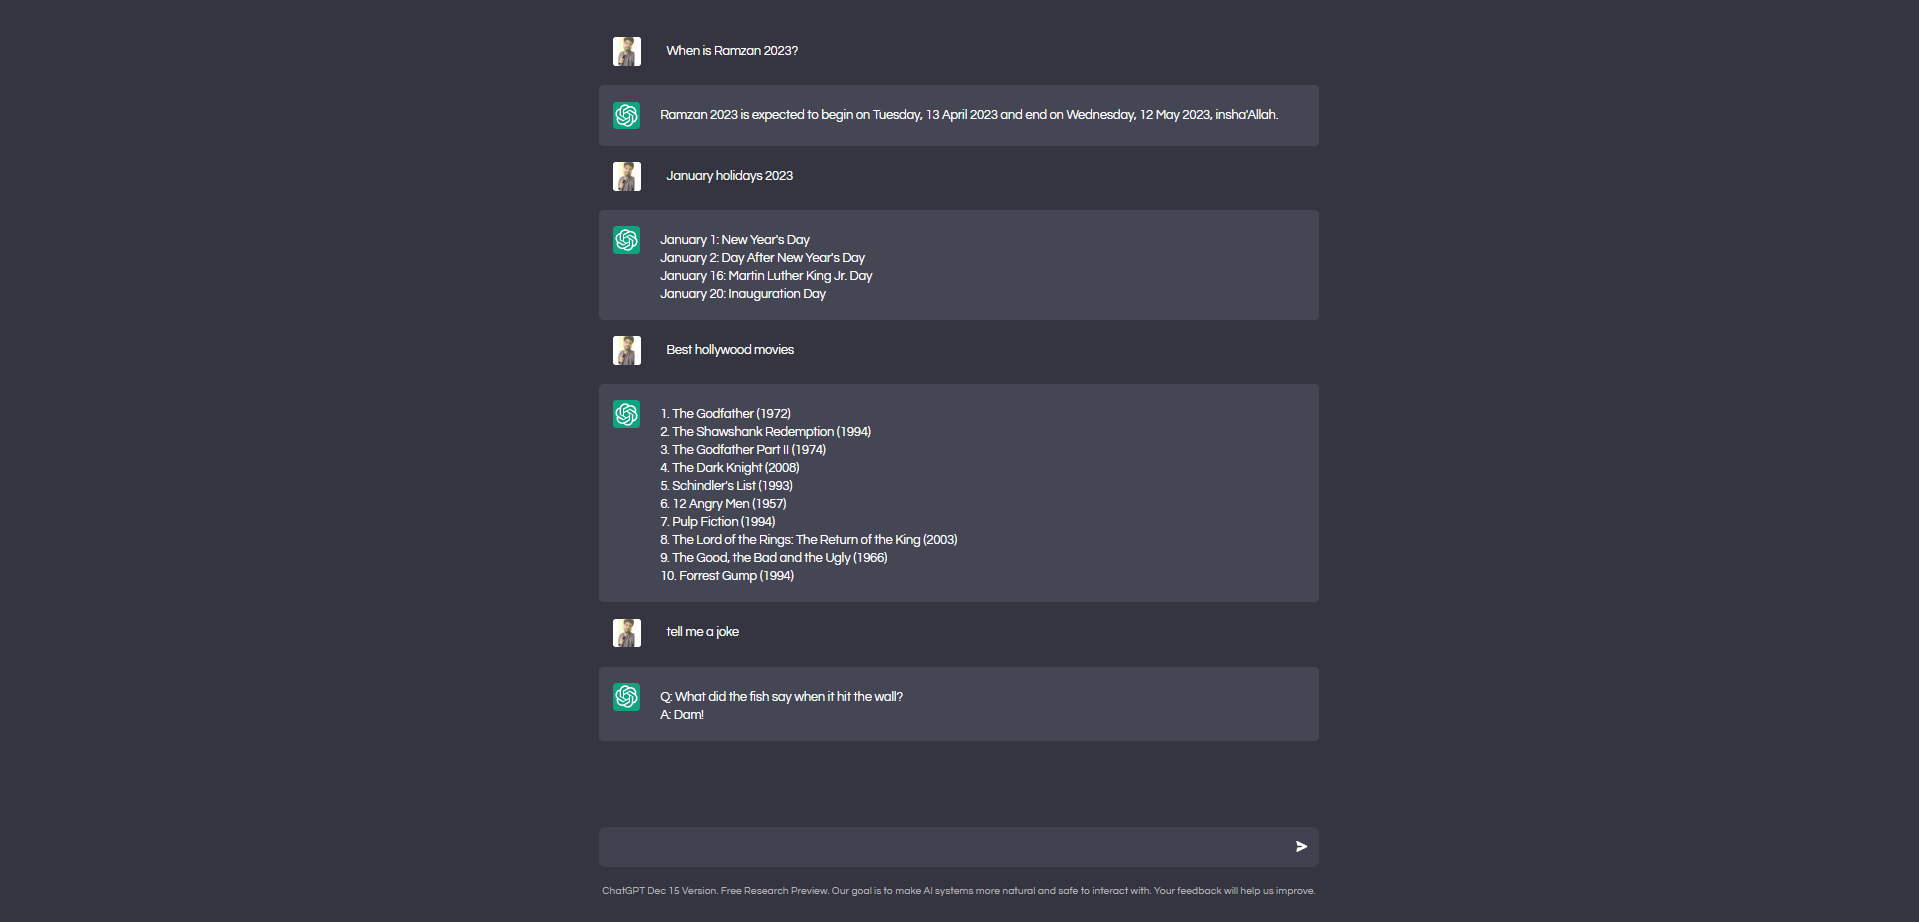
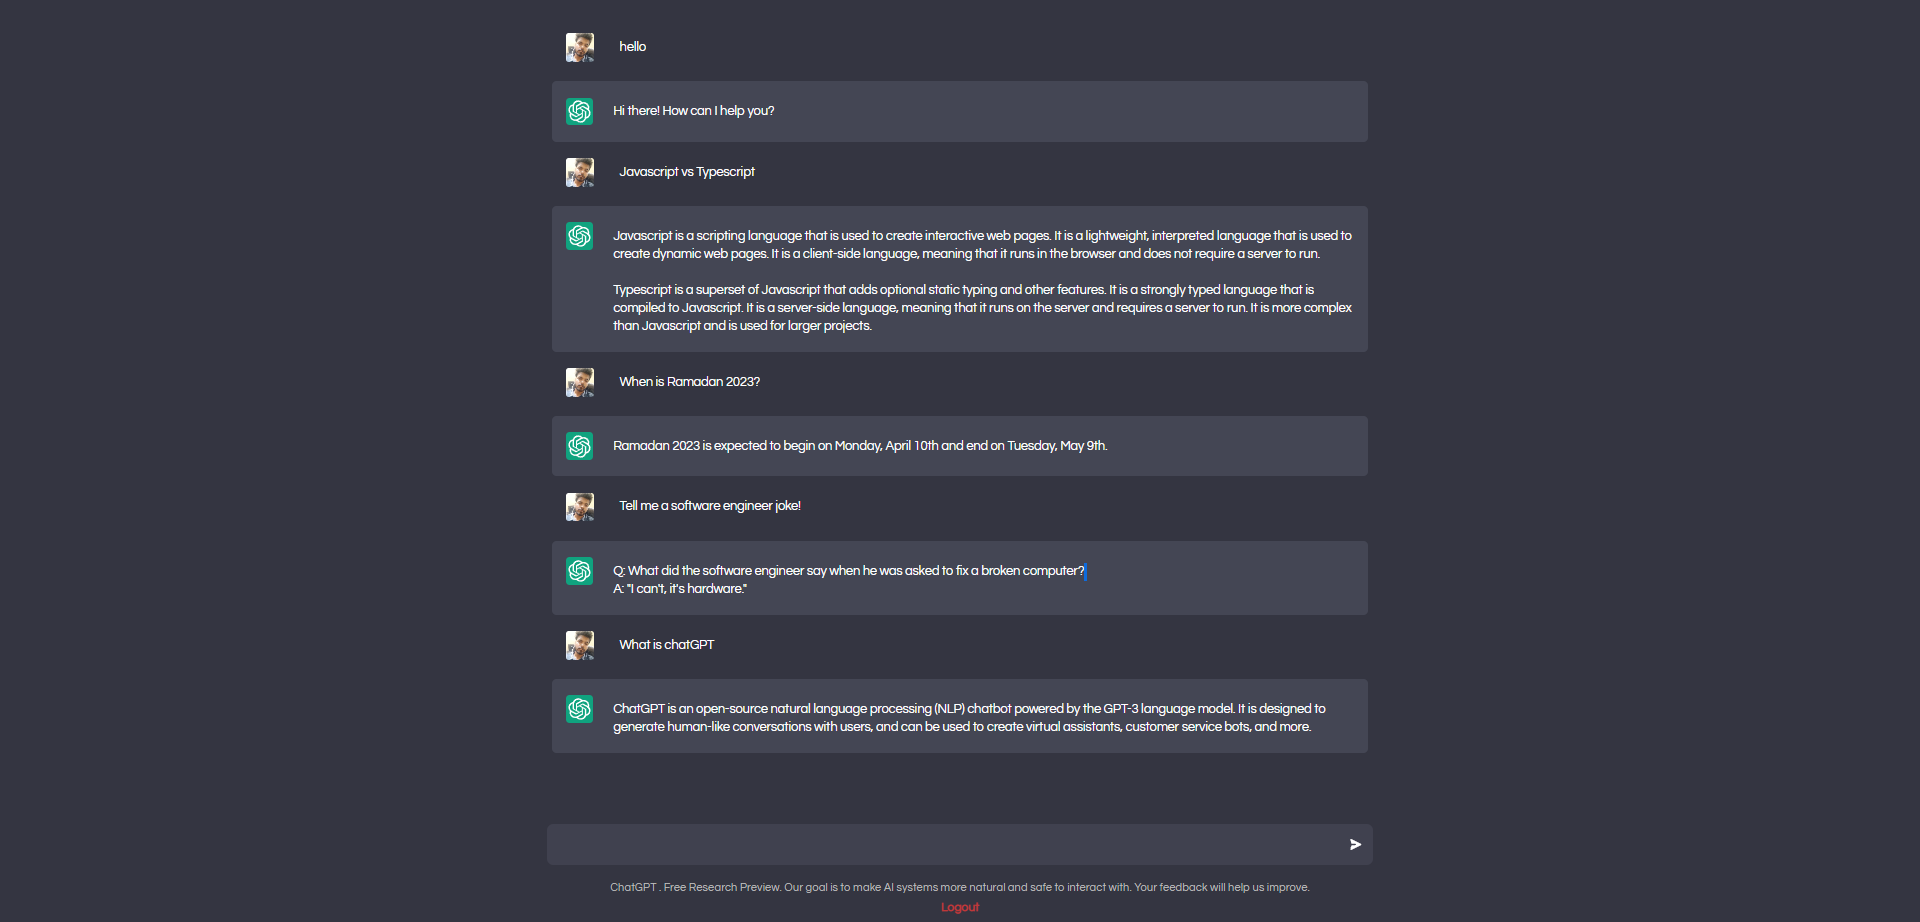
auto scroll added, unique key fixed, and get all previous chats too now and yes spinner added for loading

Changed region(s): [[0.2767, 0.243, 0.7071, 0.82], [0.2767, 0.0304, 0.6764, 0.2126], [0.3075, 0.9414, 0.6764, 1.0]]

diff --git a/client/src/App.tsx b/client/src/App.tsx
@@ -1,4 +1,4 @@
-import { useState } from "react";
+import { useEffect, useState } from "react";
 import Hero from "./components/Hero";
 import Input from "./components/Input";
 import Messages from "./components/Messages";
@@ -6,17 +6,31 @@ import { Routes, Route, Navigate } from "react-router-dom";
 import Login from "./pages/Login";
 import Signup from "./pages/Signup";
 import Auth from "./pages/Auth";
+import axios from "axios";
+import { url } from "./url";
 
 export type Message = {
   msg: string;
   me?: boolean;
   img: string | undefined;
+  _id: string;
+};
+
+type User = {
+  apiKey: string;
+  avatar: string;
+  createdAt: string;
+  queries: string;
+  uid: string;
+  updatedAt: string;
+  username: string;
+  _id: string;
 };
 
 export default function App() {
   const [messages, setMessages] = useState<Message[]>([]);
   const [loading, setLoading] = useState<boolean>(false);
-  const [auth, setAuth] = useState(() => {
+  const [auth, setAuth] = useState<User | undefined>(() => {
     const user = localStorage.getItem("auth");
     if (!user) return undefined;
     return JSON.parse(user);
@@ -29,12 +43,35 @@ export default function App() {
     setLoading(value);
   }
   function handleAuth(value: any) {
+    setMessages([]);
     setAuth(value);
   }
   function handlelogout() {
-    setAuth(null);
+    setAuth(undefined);
     localStorage.removeItem("auth");
   }
+  useEffect(() => {
+    if (!auth) return;
+    axios
+      .get(`${url}/chatgpt/getchats/${auth.apiKey}`)
+      .then((res) => {
+        const processed = res.data.texts.map(
+          (item: { message: string; textBy: number; _id: string }) => {
+            return {
+              msg: item.message,
+              me: item.textBy == 1,
+              _id: item._id,
+              img: item.textBy == 1 ? auth?.avatar : undefined,
+            };
+          }
+        );
+        setMessages(processed);
+      })
+      .catch((err) => {
+        console.log(err);
+      });
+  }, [auth]);
+
   return (
     <div>
       <Routes>

diff --git a/client/src/components/Input.tsx b/client/src/components/Input.tsx
@@ -25,6 +25,7 @@ export default function Input({
       msg: input,
       me: true,
       img,
+      _id: new Date().toString(),
     });
     setInput("");
     toggleLoading(true);
@@ -37,6 +38,7 @@ export default function Input({
         addMessage({
           msg: resp.data.message,
           img: undefined,
+          _id: resp.data.id,
         });
       });
   }
@@ -48,14 +50,14 @@ export default function Input({
         flexDirection: "column",
         alignItems: "center",
         position: "absolute",
-        bottom: "35px",
+        bottom: "10px",
         width: "100%",
       }}
     >
       <div
         className="input_box"
         style={{
-          width: "75%",
+          width: "86%",
           backgroundColor: "#40414f",
           height: "45px",
           borderRadius: "7px",
@@ -67,6 +69,7 @@ export default function Input({
         }}
       >
         <input
+          autoFocus={true}
           onKeyDown={(e) => e.keyCode === 13 && input != "" && handleInput()}
           onChange={(e) => setInput(e.target.value)}
           value={input}
@@ -100,20 +103,19 @@ export default function Input({
       <p
         className="hide"
         style={{
-          fontSize: "11.6px",
+          fontSize: "12.6px",
           textAlign: "center",
           marginTop: "19px",
           color: "rgb(185 185 185)",
-          maxWidth: "75%",
+          maxWidth: "85%",
         }}
       >
-        ChatGPT Dec 15 Version. Free Research Preview. Our goal is to make AI
-        systems more natural and safe to interact with. Your feedback will help
-        us improve.
+        ChatGPT . Free Research Preview. Our goal is to make AI systems more
+        natural and safe to interact with. Your feedback will help us improve.
       </p>
       <p
         style={{
-          fontSize: "13px",
+          fontSize: "13.5px",
           marginTop: "9px",
           cursor: "pointer",
           color: "#bf3838",

diff --git a/client/src/components/Messages.tsx b/client/src/components/Messages.tsx
@@ -1,6 +1,6 @@
 import React, { useEffect, useRef } from "react";
 import { Message as MessageType } from "../App";
-
+import loader from "../assets/loader.gif";
 import Message from "./Message";
 
 type MessagesProps = {
@@ -9,34 +9,41 @@ type MessagesProps = {
 };
 
 export default function Messages({ messages, show }: MessagesProps) {
-  const scrollRef = useRef<any>();
-  useEffect(() => {
-    updateScroll();
-  }, [messages]);
+  const scrollRef = useRef<HTMLDivElement | null>(null);
+  useEffect(updateScroll, [messages]);
+
   function updateScroll() {
-    var element = scrollRef.current;
-    if (!element) return;
-    element.scrollTop = element.scrollHeight;
+    scrollRef.current?.scrollIntoView({ behavior: "smooth" });
   }
+
   return (
     <div
       className="msg_cont"
-      ref={scrollRef}
       style={{
-        width: "75%",
+        width: "85%",
         margin: "auto",
         marginTop: "2.5vh",
+        overflowY: "scroll",
       }}
     >
       <>
         {messages.map((item) => {
-          return <Message me={item.me} msg={item.msg} img={item.img} />;
+          return (
+            <div ref={scrollRef} key={item._id}>
+              <Message
+                me={item.me}
+                msg={item.msg}
+                img={item.img}
+                _id={item._id}
+                key={item._id}
+              />
+            </div>
+          );
         })}
       </>
-
       {show && (
         <p style={{ textAlign: "center", margin: "28px 0", fontSize: "14px" }}>
-          Loading...
+          <img style={{ width: "23px" }} src={loader} alt="" />
         </p>
       )}
     </div>

diff --git a/controllers/chat.js b/controllers/chat.js
@@ -1,8 +1,10 @@
 const Query = require("../models/Query");
 const { createCompletionChatGTP } = require("../chatGTP");
+const { v4: uuid } = require("uuid");
 
 exports.chat = async (req, res) => {
   try {
+    const tempId = uuid();
     await Query.updateOne(
       { _id: req.queryId },
       { $push: { texts: { message: req.body.message, textBy: 1 } } }
@@ -12,9 +14,16 @@ exports.chat = async (req, res) => {
     });
     await Query.updateOne(
       { _id: req.queryId },
-      { $push: { texts: { message: data.choices[0]?.text, textBy: 0 } } }
+      {
+        $push: {
+          texts: { message: data.choices[0]?.text, textBy: 0 },
+        },
+      }
     );
-    res.send({ message: data.choices[0]?.text });
+    res.send({
+      message: data.choices[0]?.text,
+      _id: data.choices[0] ? tempId : undefined,
+    });
   } catch (err) {
     res.status(400).send({ success: false, message: err.message });
   }
@@ -22,7 +31,7 @@ exports.chat = async (req, res) => {
 
 exports.getAllChats = async (req, res) => {
   try {
-    const query = await Query.findOne({ _id: req.body._id });
+    const query = await Query.findOne({ _id: req.queryId });
     if (!query)
       return res
         .status(400)

diff --git a/client/src/components/Hero.tsx b/client/src/components/Hero.tsx
@@ -4,12 +4,17 @@ import { alert, sun, thunder } from "../assets/icons";
 export default function Hero() {
   return (
     <div
-      style={{ display: "flex", flexDirection: "column", alignItems: "center" }}
+      style={{
+        display: "flex",
+        flexDirection: "column",
+        alignItems: "center",
+        width: "100%",
+      }}
     >
       <h1 style={{ marginTop: "18vh", marginBottom: "5vh" }}>ChatGPT</h1>
       <div
         className="cols"
-        style={{ display: "flex", flexDirection: "row", gap: "18px" }}
+        style={{ display: "flex", flexDirection: "row", gap: "58px" }}
       >
         <div
           className="row"

diff --git a/chatGTP.js b/chatGTP.js
@@ -4,15 +4,6 @@ const configuration = new Configuration({
 });
 const openai = new OpenAIApi(configuration);
 
-async function generateImageFromChatGTP({ message }) {
-  const response = await openai.createImage({
-    prompt: message,
-    n: 2,
-    size: "1024x1024",
-  });
-  return response;
-}
-
 async function createCompletionChatGTP({ message }) {
   const response = await openai.createCompletion({
     model: "text-davinci-003",
@@ -23,4 +14,4 @@ async function createCompletionChatGTP({ message }) {
   return response;
 }
 
-module.exports = { generateImageFromChatGTP, createCompletionChatGTP };
+module.exports = { createCompletionChatGTP };

diff --git a/models/Query.js b/models/Query.js
@@ -1,18 +1,19 @@
 const mongoose = require("mongoose");
 
 const querySchema = new mongoose.Schema({
-    texts: [
-        {
-            message: {
-                type: String,
-            },
-            textBy: {
-                type: Number,
-                // 0 -> chatGPT
-                // 1 -> user
-            },
-        },
-    ],
+  texts: [
+    {
+      message: {
+        type: String,
+      },
+      textBy: {
+        type: Number,
+        // 0 -> chatGPT
+        // 1 -> user
+      },
+      id: String,
+    },
+  ],
 });
 
 module.exports = new mongoose.model("query", querySchema);

diff --git a/middlewares/apiKey.js b/middlewares/apiKey.js
@@ -5,6 +5,7 @@ exports.checkApiKey = async (req, res, next) => {
     const user = await User.findOne({ apiKey: req.params.apiKey });
     if (!user) return res.status(401).send({ message: "Unauthorised" });
     req.queryId = user.queries;
+    req.userId = user._id;
     next();
   } catch (err) {
     res.status(400).send({ success: false, message: err.message });

diff --git a/routers/chat.js b/routers/chat.js
@@ -3,6 +3,6 @@ const { checkApiKey } = require("../middlewares/apiKey");
 const router = require("express").Router();
 
 router.route("/chat/:apiKey").post(checkApiKey, chat);
-router.route("/getchats/:apiKey").post(checkApiKey, getAllChats);
+router.route("/getchats/:apiKey").get(checkApiKey, getAllChats);
 
 module.exports = router;

diff --git a/controllers/auth.js b/controllers/auth.js
@@ -22,6 +22,7 @@ exports.login = async (req, res) => {
     res.status(400).send({ error: err.message });
   }
 };
+
 exports.signup = async (req, res) => {
   try {
     const newQuery = new Query({ texts: [] });
